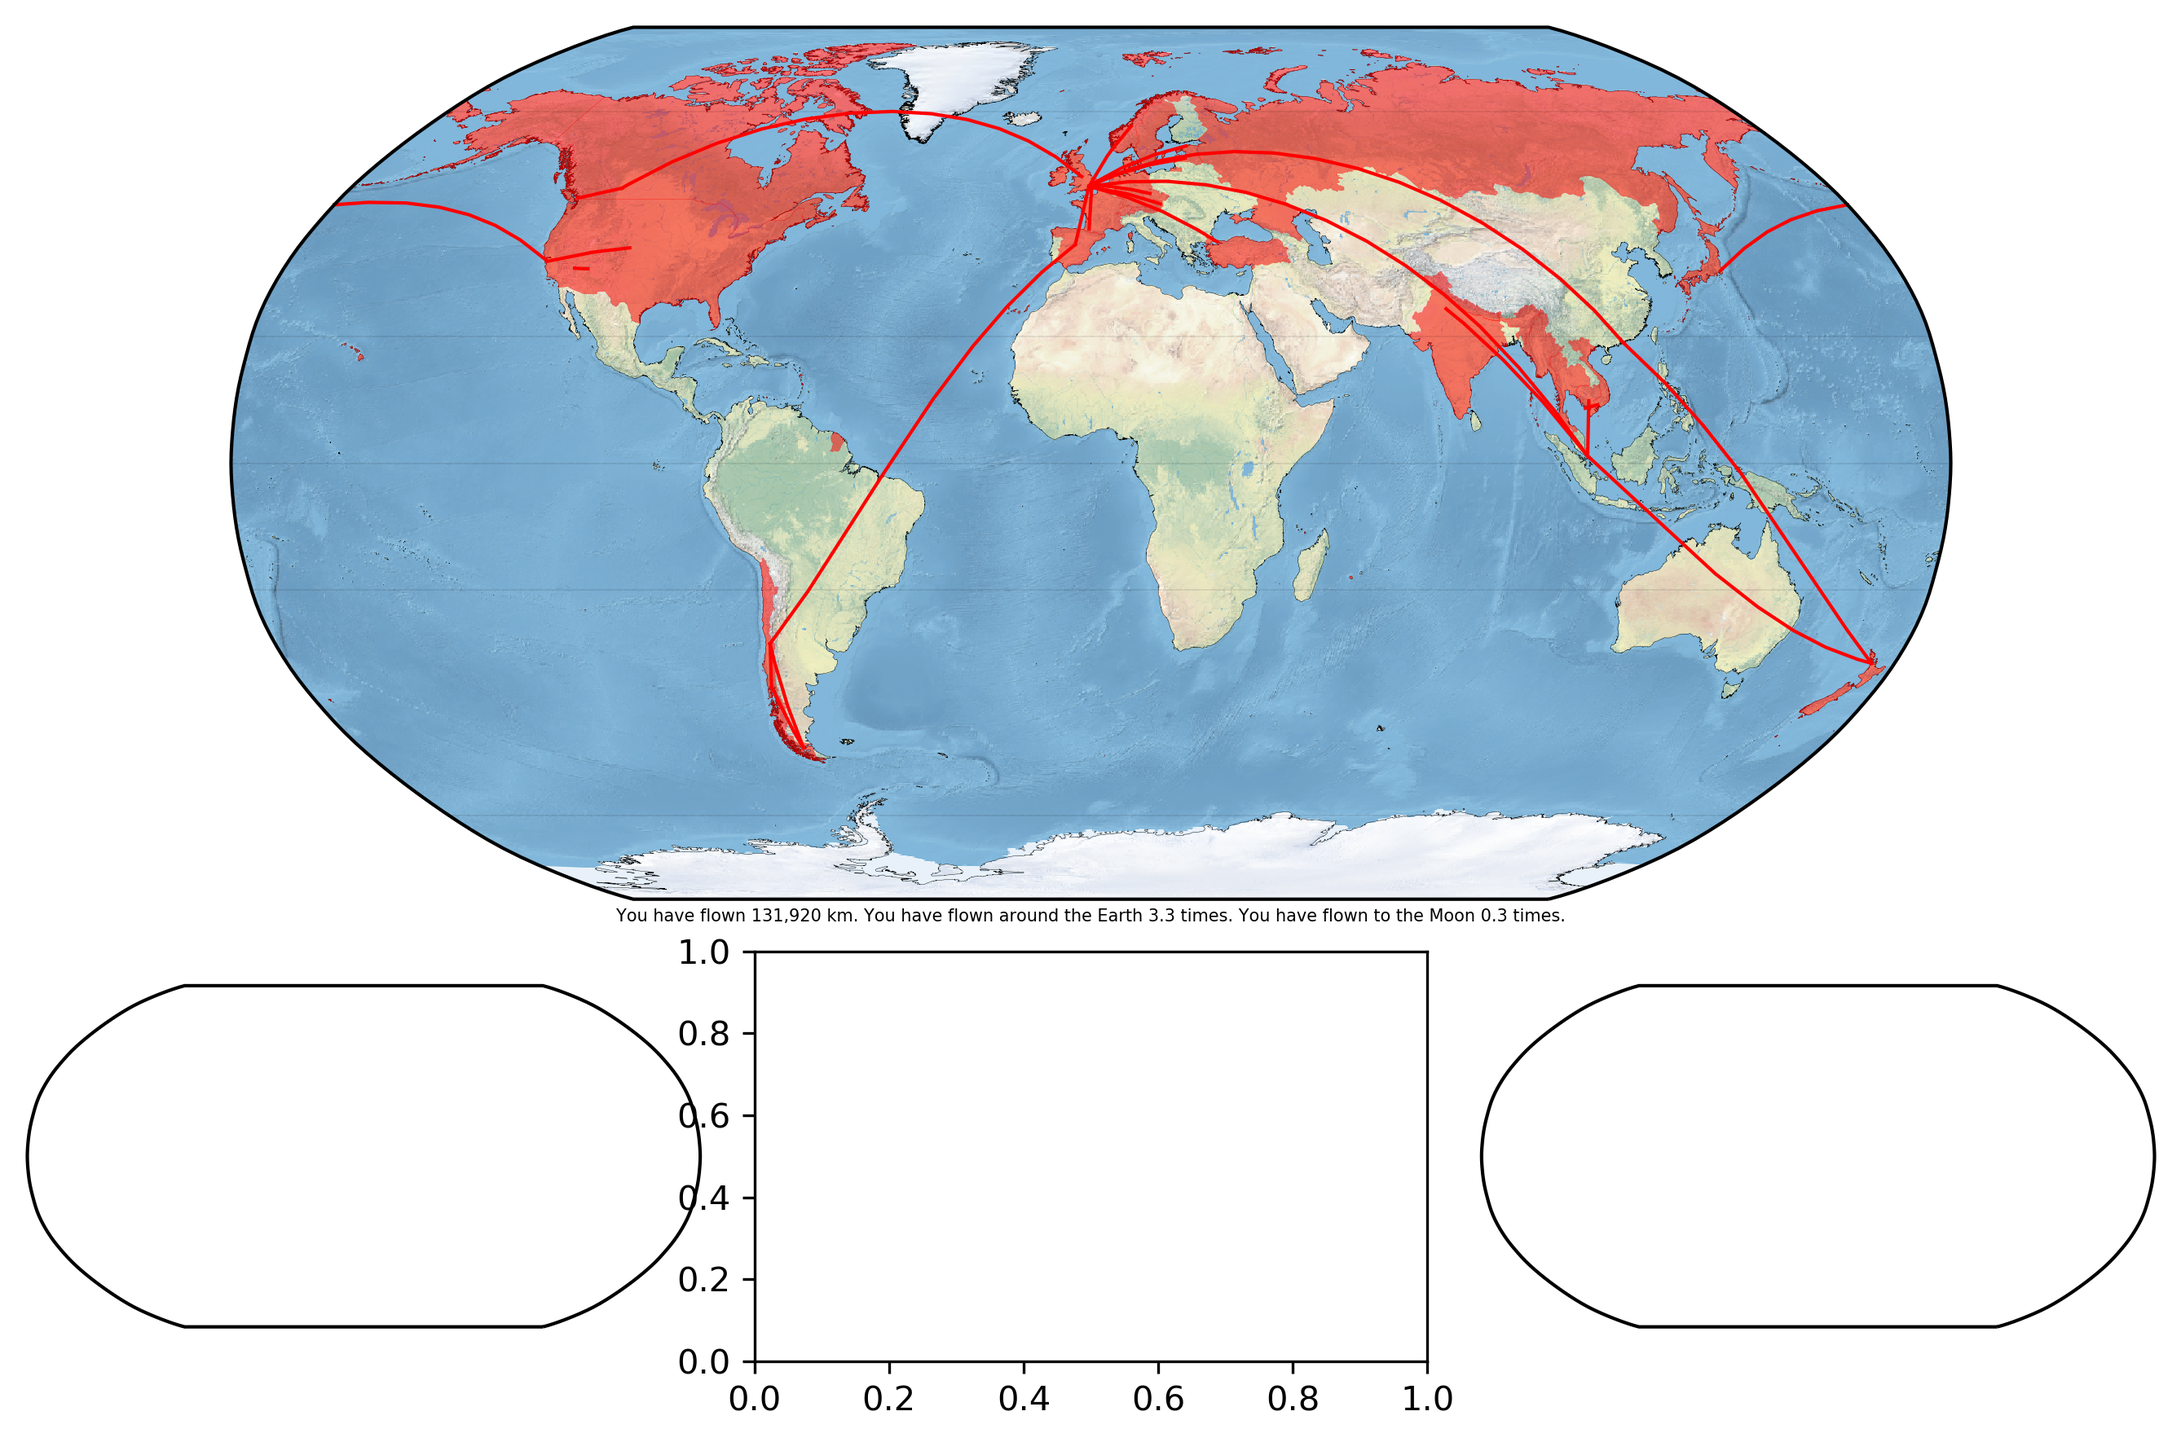
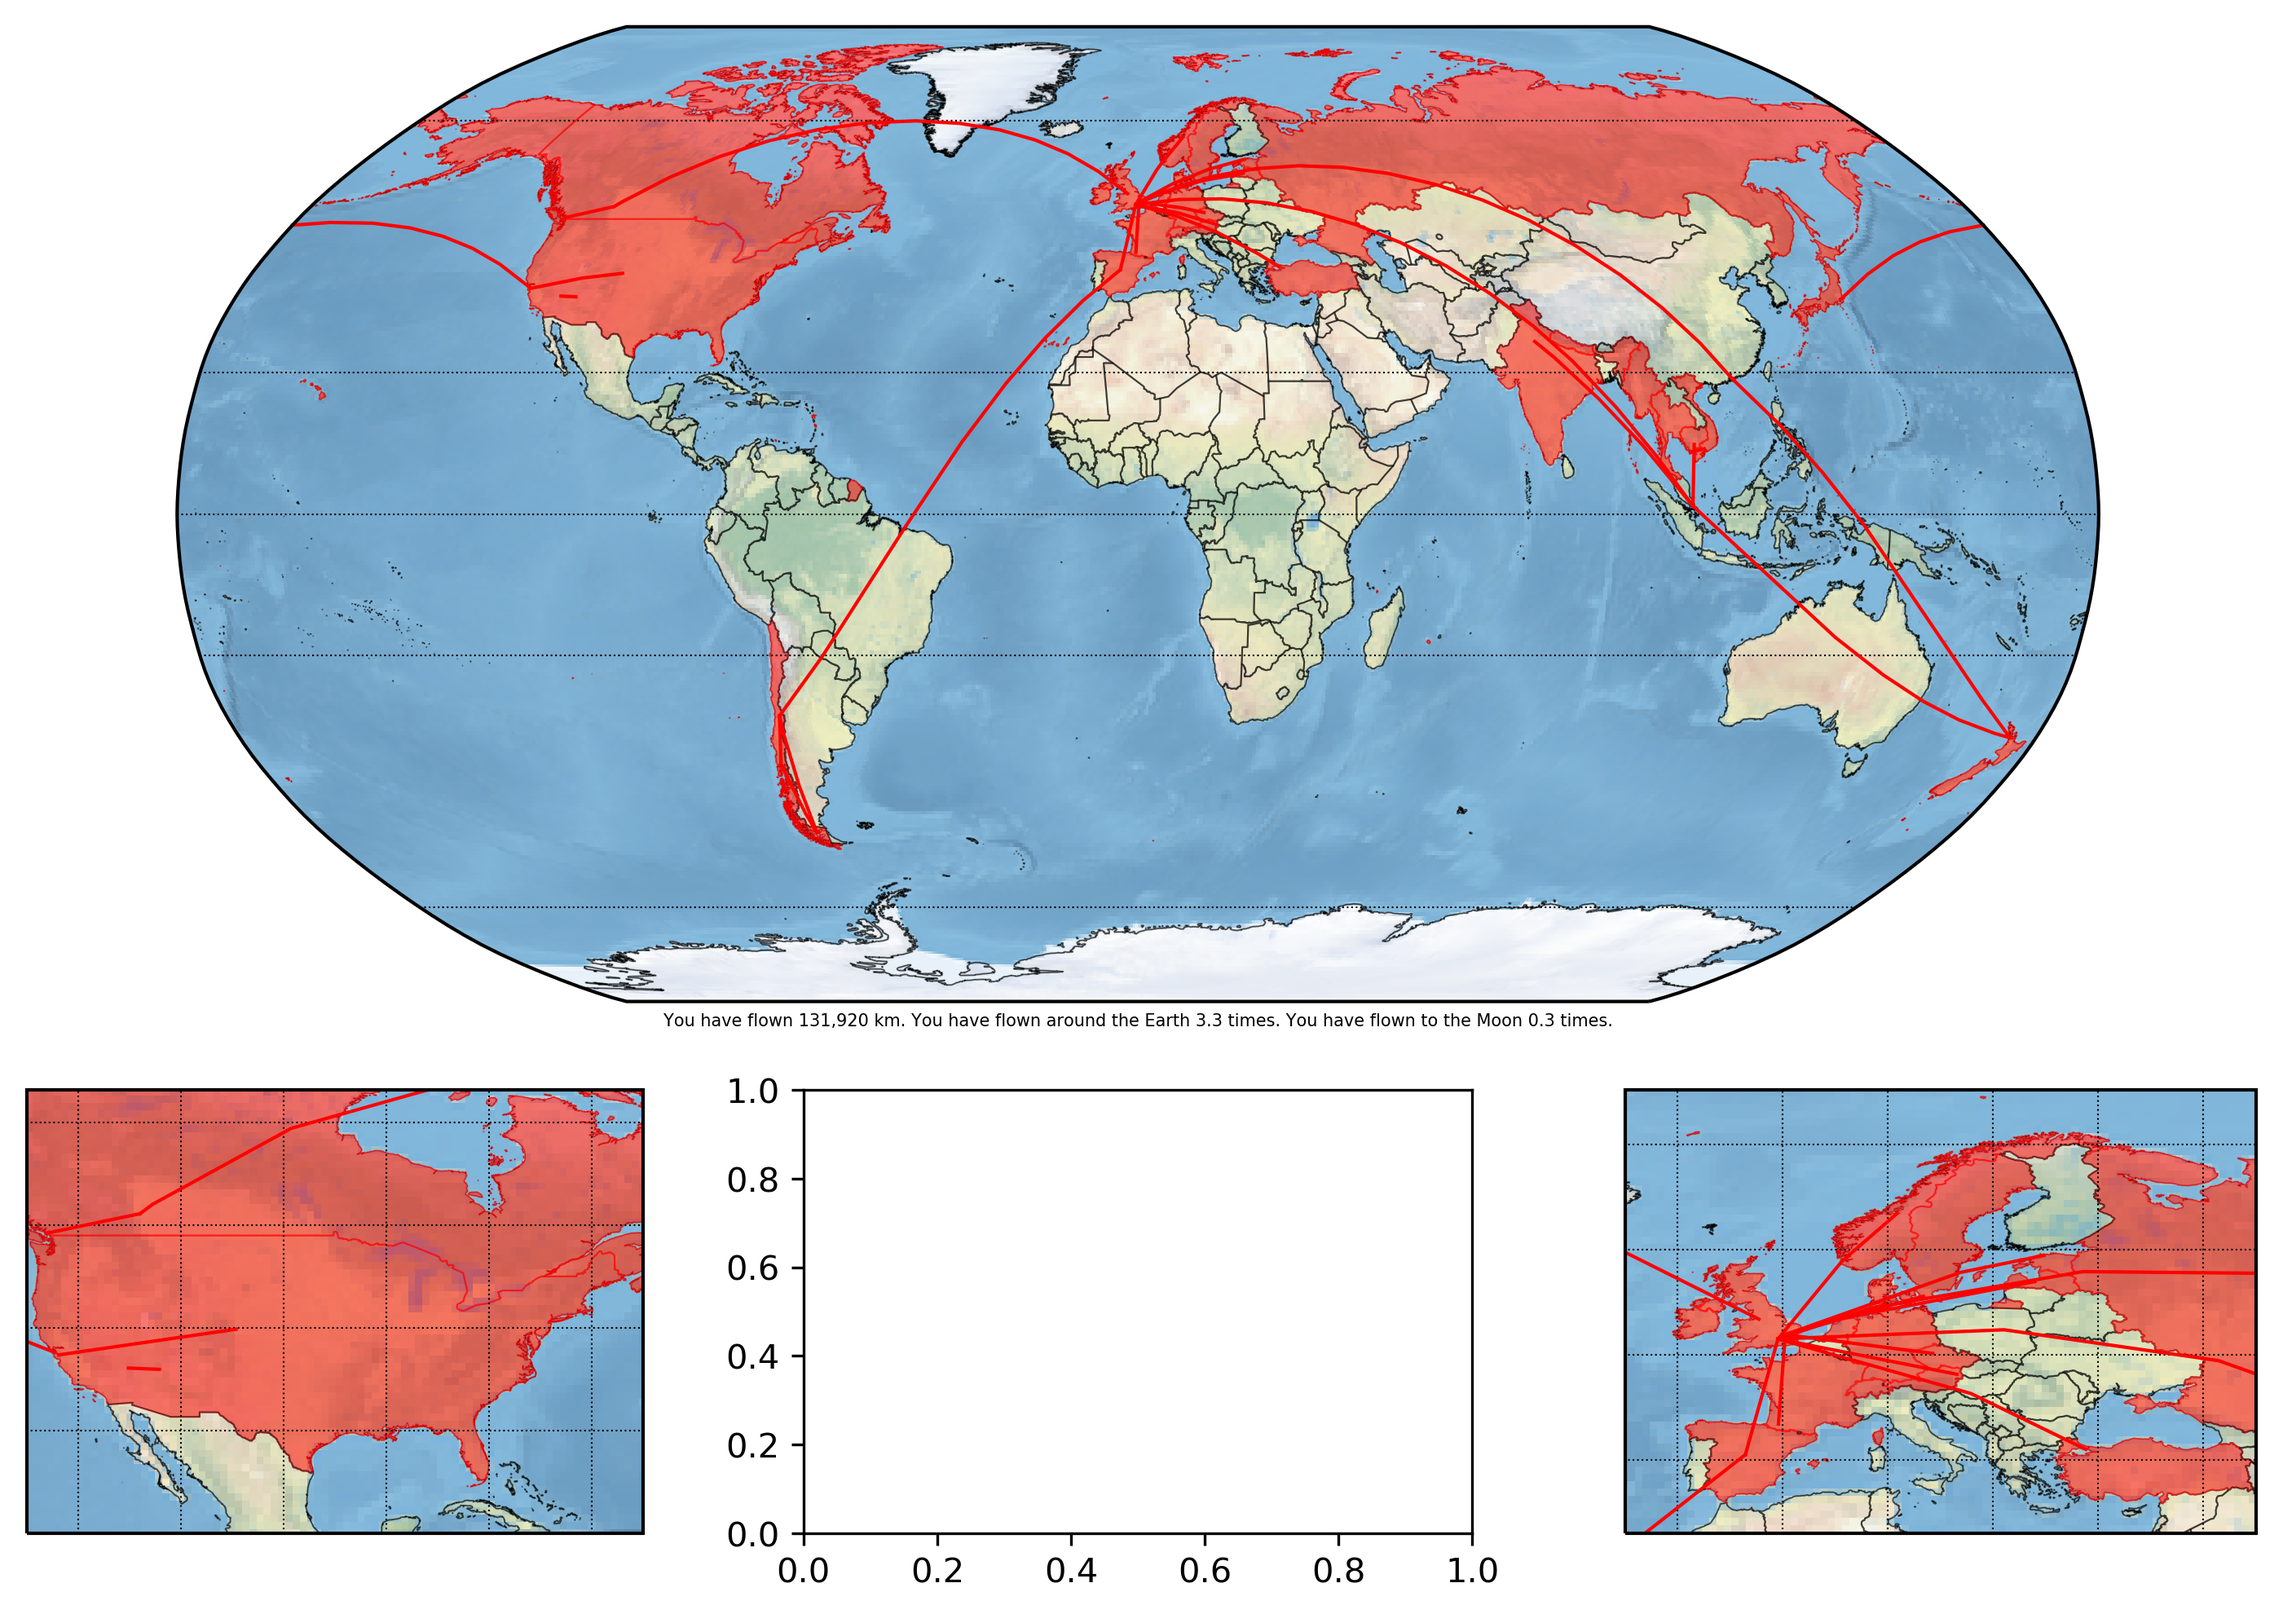
created botoom-left and bottom-right sub-plots

diff --git a/run.py b/run.py
@@ -21,18 +21,51 @@ def run(flightLog = "/this/path/does/not/exist", extraCountries = [], renames = 
 
     # Create plot and make it pretty ...
     fig = matplotlib.pyplot.figure(
-        figsize = (9, 6),
+        figsize = (12, 8),
             dpi = 300,
         frameon = False
     )
-    axt = matplotlib.pyplot.subplot2grid((3, 3), (0, 0), projection = cartopy.crs.Robinson(), colspan = 3, rowspan = 2)
-    axl = matplotlib.pyplot.subplot2grid((3, 3), (2, 0), projection = cartopy.crs.Robinson())
-    axm = matplotlib.pyplot.subplot2grid((3, 3), (2, 1))
-    axr = matplotlib.pyplot.subplot2grid((3, 3), (2, 2), projection = cartopy.crs.Robinson())
+    axt = matplotlib.pyplot.subplot2grid(
+        (3, 3),
+        (0, 0),
+        projection = cartopy.crs.Robinson(),
+           colspan = 3,
+           rowspan = 2
+    )
+    axl = matplotlib.pyplot.subplot2grid(
+        (3, 3),
+        (2, 0),
+        projection = cartopy.crs.PlateCarree()
+    )
+    axm = matplotlib.pyplot.subplot2grid(
+        (3, 3),
+        (2, 1)
+    )
+    axr = matplotlib.pyplot.subplot2grid(
+        (3, 3),
+        (2, 2),
+        projection = cartopy.crs.PlateCarree()
+    )
     axt.set_global()
-    pyguymer.add_map_background(axt, resolution = "medium2048px")
-    pyguymer.add_map_background(axl, resolution = "medium2048px")
-    pyguymer.add_map_background(axr, resolution = "medium2048px")
+    axl.set_extent(
+        [
+            -125.0, # left
+             -65.0, # right
+              20.0, # bottom
+              60.0  # top
+        ]
+    )
+    axr.set_extent(
+        [
+            -15.0, # left
+             45.0, # right
+             33.0, # bottom
+             73.0  # top
+        ]
+    )
+    pyguymer.add_map_background(axt, resolution = "medium0512px")
+    pyguymer.add_map_background(axl, resolution = "medium0512px")
+    pyguymer.add_map_background(axr, resolution = "medium0512px")
     axt.coastlines(
         resolution = "10m",
              color = "black",
@@ -57,7 +90,7 @@ def run(flightLog = "/this/path/does/not/exist", extraCountries = [], renames = 
         [ y1,  y1],
         transform = cartopy.crs.PlateCarree(),
             color = "black",
-        linewidth = 0.1,
+        linewidth = 0.5,
         linestyle = ":"
     )
     axt.plot(
@@ -65,7 +98,7 @@ def run(flightLog = "/this/path/does/not/exist", extraCountries = [], renames = 
         [ y2,  y2],
         transform = cartopy.crs.PlateCarree(),
             color = "black",
-        linewidth = 0.1,
+        linewidth = 0.5,
         linestyle = ":"
     )
     axt.plot(
@@ -73,7 +106,7 @@ def run(flightLog = "/this/path/does/not/exist", extraCountries = [], renames = 
         [0.0, 0.0],
         transform = cartopy.crs.PlateCarree(),
             color = "black",
-        linewidth = 0.1,
+        linewidth = 0.5,
         linestyle = ":"
     )
     axt.plot(
@@ -81,7 +114,7 @@ def run(flightLog = "/this/path/does/not/exist", extraCountries = [], renames = 
         [-y2, -y2],
         transform = cartopy.crs.PlateCarree(),
             color = "black",
-        linewidth = 0.1,
+        linewidth = 0.5,
         linestyle = ":"
     )
     axt.plot(
@@ -89,9 +122,49 @@ def run(flightLog = "/this/path/does/not/exist", extraCountries = [], renames = 
         [-y1, -y1],
         transform = cartopy.crs.PlateCarree(),
             color = "black",
-        linewidth = 0.1,
+        linewidth = 0.5,
         linestyle = ":"
     )
+
+    # Add notable lines manually ...
+    for xloc in [-120.0, -110.0, -100.0, -90.0, -80.0, -70.0]:
+        axl.plot(
+            [xloc, xloc],
+            [-90.0, 90.0],
+            transform = cartopy.crs.PlateCarree(),
+                color = "black",
+            linewidth = 0.5,
+            linestyle = ":"
+        )
+    for yloc in [20.0, 30.0, 40.0, 50.0, 60.0]:
+        axl.plot(
+            [-180.0, 180.0],
+            [yloc, yloc],
+            transform = cartopy.crs.PlateCarree(),
+                color = "black",
+            linewidth = 0.5,
+            linestyle = ":"
+        )
+
+    # Add notable lines manually ...
+    for xloc in [-10.0, 0.0, 10.0, 20.0, 30.0, 40.0]:
+        axr.plot(
+            [xloc, xloc],
+            [-90.0, 90.0],
+            transform = cartopy.crs.PlateCarree(),
+                color = "black",
+            linewidth = 0.5,
+            linestyle = ":"
+        )
+    for yloc in [40.0, 50.0, 60.0, 70.0]:
+        axr.plot(
+            [-180.0, 180.0],
+            [yloc, yloc],
+            transform = cartopy.crs.PlateCarree(),
+                color = "black",
+            linewidth = 0.5,
+            linestyle = ":"
+        )
 
     # Load airport list ...
     db = load_airport_list()
@@ -125,6 +198,20 @@ def run(flightLog = "/this/path/does/not/exist", extraCountries = [], renames = 
 
         # Draw the great circle ...
         axt.plot(
+            [lon1, lon2],
+            [lat1, lat2],
+            transform = cartopy.crs.Geodetic(),
+            linewidth = 1.0,
+                color = "red"
+        )
+        axl.plot(
+            [lon1, lon2],
+            [lat1, lat2],
+            transform = cartopy.crs.Geodetic(),
+            linewidth = 1.0,
+                color = "red"
+        )
+        axr.plot(
             [lon1, lon2],
             [lat1, lat2],
             transform = cartopy.crs.Geodetic(),
@@ -184,12 +271,51 @@ def run(flightLog = "/this/path/does/not/exist", extraCountries = [], renames = 
                     alpha = 0.5,
                     color = "red",
                 facecolor = "red",
-                linewidth = 0.1
+                linewidth = 0.5
+            )
+            axl.add_geometries(
+                record.geometry,
+                cartopy.crs.PlateCarree(),
+                    alpha = 0.5,
+                    color = "red",
+                facecolor = "red",
+                linewidth = 0.5
+            )
+            axr.add_geometries(
+                record.geometry,
+                cartopy.crs.PlateCarree(),
+                    alpha = 0.5,
+                    color = "red",
+                facecolor = "red",
+                linewidth = 0.5
             )
             extraCountries.remove(record.attributes["NAME"])
-
-    # Tighen plot ..
-    matplotlib.pyplot.tight_layout()
+        else:
+            # Outline the country ...
+            axt.add_geometries(
+                record.geometry,
+                cartopy.crs.PlateCarree(),
+                    alpha = 0.5,
+                    color = "black",
+                facecolor = "none",
+                linewidth = 0.5
+            )
+            axl.add_geometries(
+                record.geometry,
+                cartopy.crs.PlateCarree(),
+                    alpha = 0.5,
+                    color = "black",
+                facecolor = "none",
+                linewidth = 0.5
+            )
+            axr.add_geometries(
+                record.geometry,
+                cartopy.crs.PlateCarree(),
+                    alpha = 0.5,
+                    color = "black",
+                facecolor = "none",
+                linewidth = 0.5
+            )
 
     # Save map as PNG ...
     matplotlib.pyplot.savefig(
